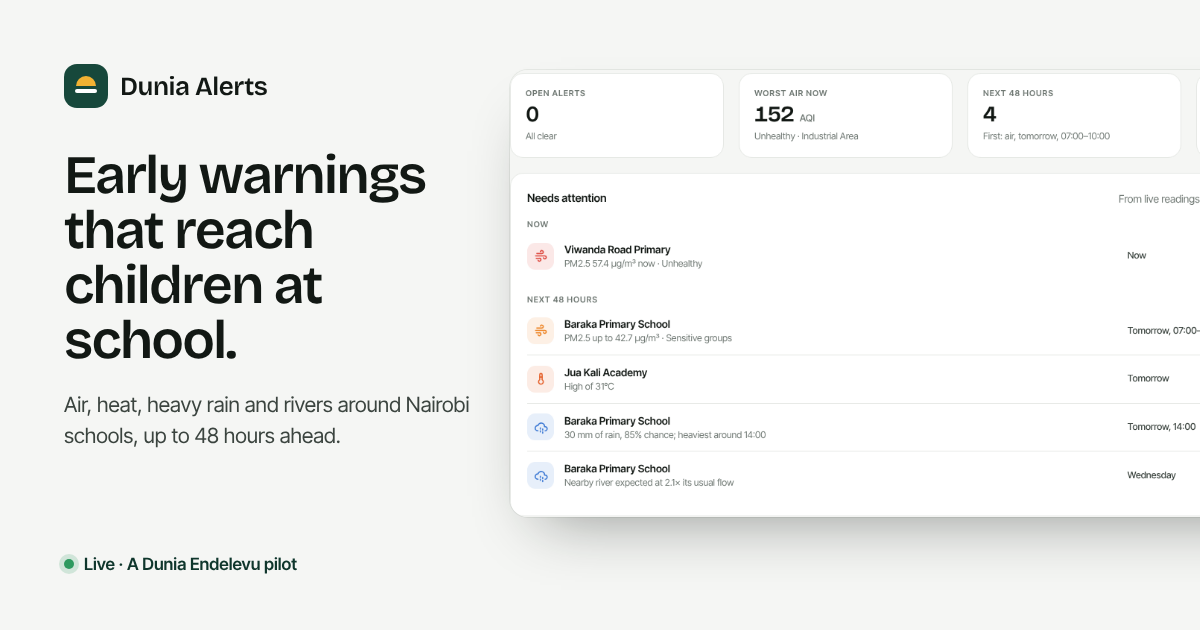
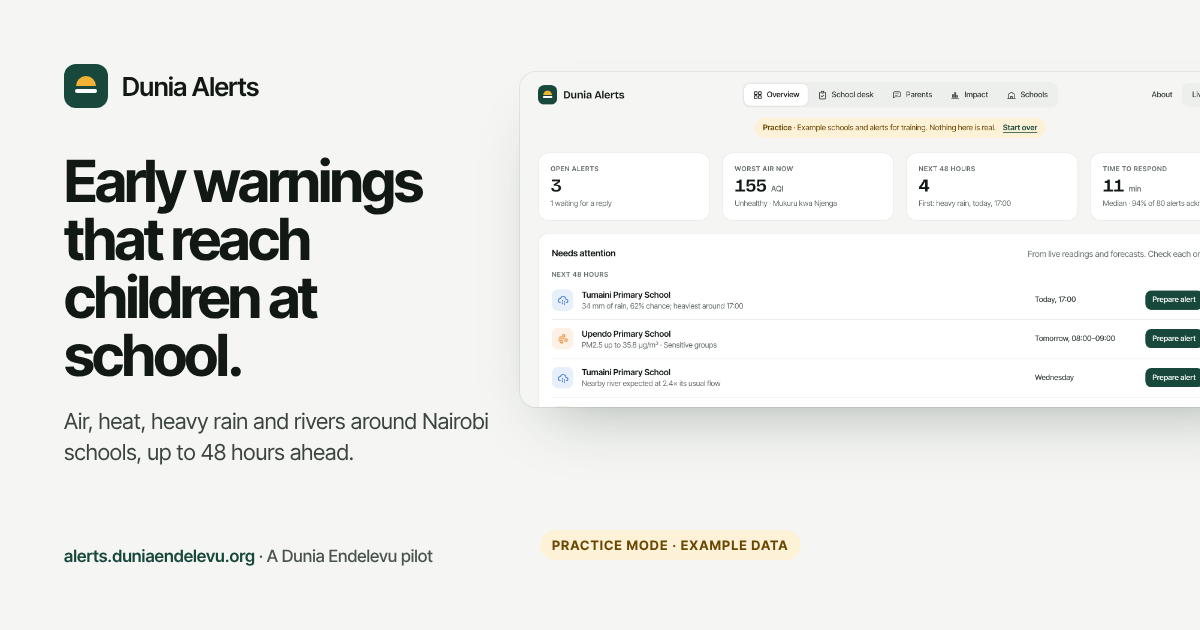
Move to alerts.duniaendelevu.org
Canonical addresses, sitemap, robots, llms, security.txt and README use
https://alerts.duniaendelevu.org. dunia-alerts.vercel.app redirects there,
except /api/ so sensors keep working. Security reports can go to
hello@duniaendelevu.org. Share image labels the dashboard as example data.

Claude-Session: https://claude.ai/code/session_01VdwZZr1iuotVd4iNFujWM9

diff --git a/index.html b/index.html
@@ -5,19 +5,19 @@
 <meta name="viewport" content="width=device-width, initial-scale=1, viewport-fit=cover">
 <title>Dunia Alerts · Live early warnings for Nairobi schools</title>
 <meta name="description" content="Live air quality, heat, heavy rain and river warnings for Nairobi schools, up to 48 hours ahead, with one clear step for head teachers and messages for parents in English and Kiswahili. A Dunia Endelevu pilot.">
-<link rel="canonical" href="https://dunia-alerts.vercel.app/">
+<link rel="canonical" href="https://alerts.duniaendelevu.org/">
 <meta property="og:type" content="website">
 <meta property="og:site_name" content="Dunia Alerts">
 <meta property="og:title" content="Dunia Alerts · Live early warnings for Nairobi schools">
 <meta property="og:description" content="Air, heat, heavy rain and river warnings for schools, up to 48 hours ahead. A Dunia Endelevu pilot led by Alana Chelangat.">
-<meta property="og:url" content="https://dunia-alerts.vercel.app/">
-<meta property="og:image" content="https://dunia-alerts.vercel.app/og-image.png">
+<meta property="og:url" content="https://alerts.duniaendelevu.org/">
+<meta property="og:image" content="https://alerts.duniaendelevu.org/og-image.png">
 <meta property="og:image:width" content="1200">
 <meta property="og:image:height" content="630">
 <meta property="og:image:alt" content="Dunia Alerts dashboard showing air quality at Nairobi schools and warnings for the next 48 hours">
 <meta name="twitter:card" content="summary_large_image">
-<meta name="twitter:image" content="https://dunia-alerts.vercel.app/og-image.png">
-<script type="application/ld+json">{"@context":"https://schema.org","@type":"WebApplication","@id":"https://dunia-alerts.vercel.app/#app","name":"Dunia Alerts","url":"https://dunia-alerts.vercel.app/","description":"Early warning dashboard for schools in Nairobi, Kenya: unhealthy air, heat, heavy rain and rising rivers up to 48 hours ahead.","applicationCategory":"EducationalApplication","operatingSystem":"Any (web browser)","inLanguage":["en","sw"],"isAccessibleForFree":true,"offers":{"@type":"Offer","price":"0","priceCurrency":"KES"},"publisher":{"@type":"NGO","name":"Dunia Endelevu","url":"https://duniaendelevu.org/"}}</script>
+<meta name="twitter:image" content="https://alerts.duniaendelevu.org/og-image.png">
+<script type="application/ld+json">{"@context":"https://schema.org","@type":"WebApplication","@id":"https://alerts.duniaendelevu.org/#app","name":"Dunia Alerts","url":"https://alerts.duniaendelevu.org/","description":"Early warning dashboard for schools in Nairobi, Kenya: unhealthy air, heat, heavy rain and rising rivers up to 48 hours ahead.","applicationCategory":"EducationalApplication","operatingSystem":"Any (web browser)","inLanguage":["en","sw"],"isAccessibleForFree":true,"offers":{"@type":"Offer","price":"0","priceCurrency":"KES"},"publisher":{"@type":"NGO","name":"Dunia Endelevu","url":"https://duniaendelevu.org/"}}</script>
 <meta name="theme-color" content="#F5F6F4">
 <link rel="icon" href="favicon.svg" type="image/svg+xml">
 <link rel="apple-touch-icon" href="apple-touch-icon.png">

diff --git a/about.html b/about.html
@@ -5,14 +5,14 @@
 <meta name="viewport" content="width=device-width, initial-scale=1, viewport-fit=cover">
 <title>About Dunia Alerts · Early warnings for schools in Nairobi</title>
 <meta name="description" content="Dunia Alerts warns Nairobi schools about unhealthy air, heat, heavy rain and rising rivers up to 48 hours ahead, and helps head teachers act in time. A Dunia Endelevu pilot led by Alana Chelangat.">
-<link rel="canonical" href="https://dunia-alerts.vercel.app/about">
+<link rel="canonical" href="https://alerts.duniaendelevu.org/about">
 <meta name="theme-color" content="#F5F6F4">
 <meta property="og:type" content="website">
 <meta property="og:site_name" content="Dunia Alerts">
 <meta property="og:title" content="Dunia Alerts · Early warnings that reach children at school">
 <meta property="og:description" content="Live air, heat, rain and river warnings for Nairobi schools, with one clear step for the head teacher and messages for parents in English and Kiswahili.">
-<meta property="og:url" content="https://dunia-alerts.vercel.app/about">
-<meta property="og:image" content="https://dunia-alerts.vercel.app/og-image.png">
+<meta property="og:url" content="https://alerts.duniaendelevu.org/about">
+<meta property="og:image" content="https://alerts.duniaendelevu.org/og-image.png">
 <meta property="og:image:width" content="1200">
 <meta property="og:image:height" content="630">
 <meta property="og:image:alt" content="Dunia Alerts dashboard showing air quality at Nairobi schools and warnings for the next 48 hours">
@@ -20,7 +20,7 @@
 <meta name="twitter:card" content="summary_large_image">
 <meta name="twitter:title" content="Dunia Alerts · Early warnings that reach children at school">
 <meta name="twitter:description" content="Live air, heat, rain and river warnings for Nairobi schools. A Dunia Endelevu pilot.">
-<meta name="twitter:image" content="https://dunia-alerts.vercel.app/og-image.png">
+<meta name="twitter:image" content="https://alerts.duniaendelevu.org/og-image.png">
 <link rel="icon" href="favicon.svg" type="image/svg+xml">
 <link rel="apple-touch-icon" href="apple-touch-icon.png">
 <link rel="manifest" href="site.webmanifest">
@@ -31,9 +31,9 @@
  "@graph": [
   {
    "@type": "WebApplication",
-   "@id": "https://dunia-alerts.vercel.app/#app",
+   "@id": "https://alerts.duniaendelevu.org/#app",
    "name": "Dunia Alerts",
-   "url": "https://dunia-alerts.vercel.app/",
+   "url": "https://alerts.duniaendelevu.org/",
    "description": "Early warning dashboard for schools in Nairobi, Kenya: unhealthy air, heat, heavy rain and rising rivers up to 48 hours ahead, with steps for head teachers and messages for parents in English and Kiswahili.",
    "applicationCategory": "EducationalApplication",
    "operatingSystem": "Any (web browser)",
@@ -58,7 +58,7 @@
    "publisher": {
     "@id": "https://duniaendelevu.org/#organization"
    },
-   "screenshot": "https://dunia-alerts.vercel.app/og-image.png"
+   "screenshot": "https://alerts.duniaendelevu.org/og-image.png"
   },
   {
    "@type": "NGO",

diff --git a/classroom.html b/classroom.html
@@ -5,13 +5,13 @@
 <meta name="viewport" content="width=device-width, initial-scale=1, viewport-fit=cover">
 <title>Dunia Alerts · Classroom screen</title>
 <meta name="description" content="A wall screen for the classroom: temperature, fresh air, dust and humidity inside, the weather and air outside, in English and Kiswahili. Part of Dunia Alerts.">
-<link rel="canonical" href="https://dunia-alerts.vercel.app/classroom">
+<link rel="canonical" href="https://alerts.duniaendelevu.org/classroom">
 <meta property="og:type" content="website">
 <meta property="og:site_name" content="Dunia Alerts">
 <meta property="og:title" content="Dunia Alerts · Classroom screen">
 <meta property="og:description" content="Live classroom conditions for learners, in English and Kiswahili.">
-<meta property="og:url" content="https://dunia-alerts.vercel.app/classroom">
-<meta property="og:image" content="https://dunia-alerts.vercel.app/og-image.png">
+<meta property="og:url" content="https://alerts.duniaendelevu.org/classroom">
+<meta property="og:image" content="https://alerts.duniaendelevu.org/og-image.png">
 <meta name="twitter:card" content="summary_large_image">
 <meta name="theme-color" content="#F5F6F4">
 <link rel="icon" href="favicon.svg" type="image/svg+xml">

diff --git a/tools/simulate-sensor.js b/tools/simulate-sensor.js
@@ -1,7 +1,7 @@
 #!/usr/bin/env node
 // Pretend to be a classroom sensor, to test the API and the classroom screen before hardware arrives.
 //   node tools/simulate-sensor.js <site_url> <device_id> <key> [--backfill] [--every 60]
-// Example: node tools/simulate-sensor.js https://dunia-alerts.vercel.app dev-test-1 dak_xxx --backfill
+// Example: node tools/simulate-sensor.js https://alerts.duniaendelevu.org dev-test-1 dak_xxx --backfill
 // --backfill sends the last 3 hours at 5-minute steps first (like a sensor that was offline).
 // Readings are made up and follow a school day: CO2 rises in lessons and falls at break.
 const [base, id, key, ...rest] = process.argv.slice(2);

diff --git a/README.md b/README.md
@@ -68,7 +68,7 @@ Model limits to know: CAMS works at a city scale, so schools close together read
 2. For each sensor, run `node tools/new-device.js dev-baraka-6a baraka-6a` (device ID, then the classroom's room ID). It prints a secret **key** for the sensor and a **line** for Vercel.
 3. In Vercel **Settings → Environment Variables**, add `DEVICE_KEYS` with the lines, separated by commas. **Redeploy.**
 4. Put the key on the sensor. In Schools → Classroom screens, type the room ID so the screen shows that room.
-5. Before installing, test with the simulator: `node tools/simulate-sensor.js https://dunia-alerts.vercel.app dev-baraka-6a <key> --backfill`.
+5. Before installing, test with the simulator: `node tools/simulate-sensor.js https://alerts.duniaendelevu.org dev-baraka-6a <key> --backfill`.
 
 **Sensor API** (any sensor or gateway that can send HTTPS):
 
@@ -96,6 +96,10 @@ That suits a pilot run by the Dunia team from one laptop or phone.
 
 When the pilot grows and each school should log in on its own phone, the next step is a shared database (for example Supabase).
 
+## Where it lives
+
+Live at **https://alerts.duniaendelevu.org**, on Vercel from this repository. At GoDaddy, a CNAME record `alerts` points to the value Vercel shows for that domain. Visits to `dunia-alerts.vercel.app` are sent to the new address, except `/api/`, so sensors set up with the old address keep working.
+
 ## Put it online
 
 It is a plain static site: no build step, nothing to install.
@@ -109,7 +113,7 @@ It is a plain static site: no build step, nothing to install.
 
 `vercel.json` turns on clean addresses (`/about`) and adds security headers: a content security policy that only allows this site and Open-Meteo, HSTS, no framing, and no camera, microphone or location access.
 
-After the first deploy, add the site to [Google Search Console](https://search.google.com/search-console) and [Bing Webmaster Tools](https://www.bing.com/webmasters) and submit `https://dunia-alerts.vercel.app/sitemap.xml`. If the site moves to its own domain, change that address in `index.html`, `about.html`, `sitemap.xml`, `robots.txt`, `llms.txt` and `.well-known/security.txt`.
+After the first deploy, add the site to [Google Search Console](https://search.google.com/search-console) and [Bing Webmaster Tools](https://www.bing.com/webmasters) and submit `https://alerts.duniaendelevu.org/sitemap.xml`. If the site moves to its own domain, change that address in `index.html`, `about.html`, `sitemap.xml`, `robots.txt`, `llms.txt` and `.well-known/security.txt`.
 
 ### GitHub Pages
 

diff --git a/SECURITY.md b/SECURITY.md
@@ -2,7 +2,7 @@
 
 ## Reporting a problem
 
-Please report security issues privately through [Dunia Endelevu's contact page](https://duniaendelevu.org/contact), with "Security" in the subject. Do not open a public issue. We reply within five working days.
+Please report security issues privately to **hello@duniaendelevu.org** (or through [Dunia Endelevu's contact page](https://duniaendelevu.org/contact)), with "Security" in the subject. Do not open a public issue. We reply within five working days.
 
 ## How Dunia Alerts protects data
 
